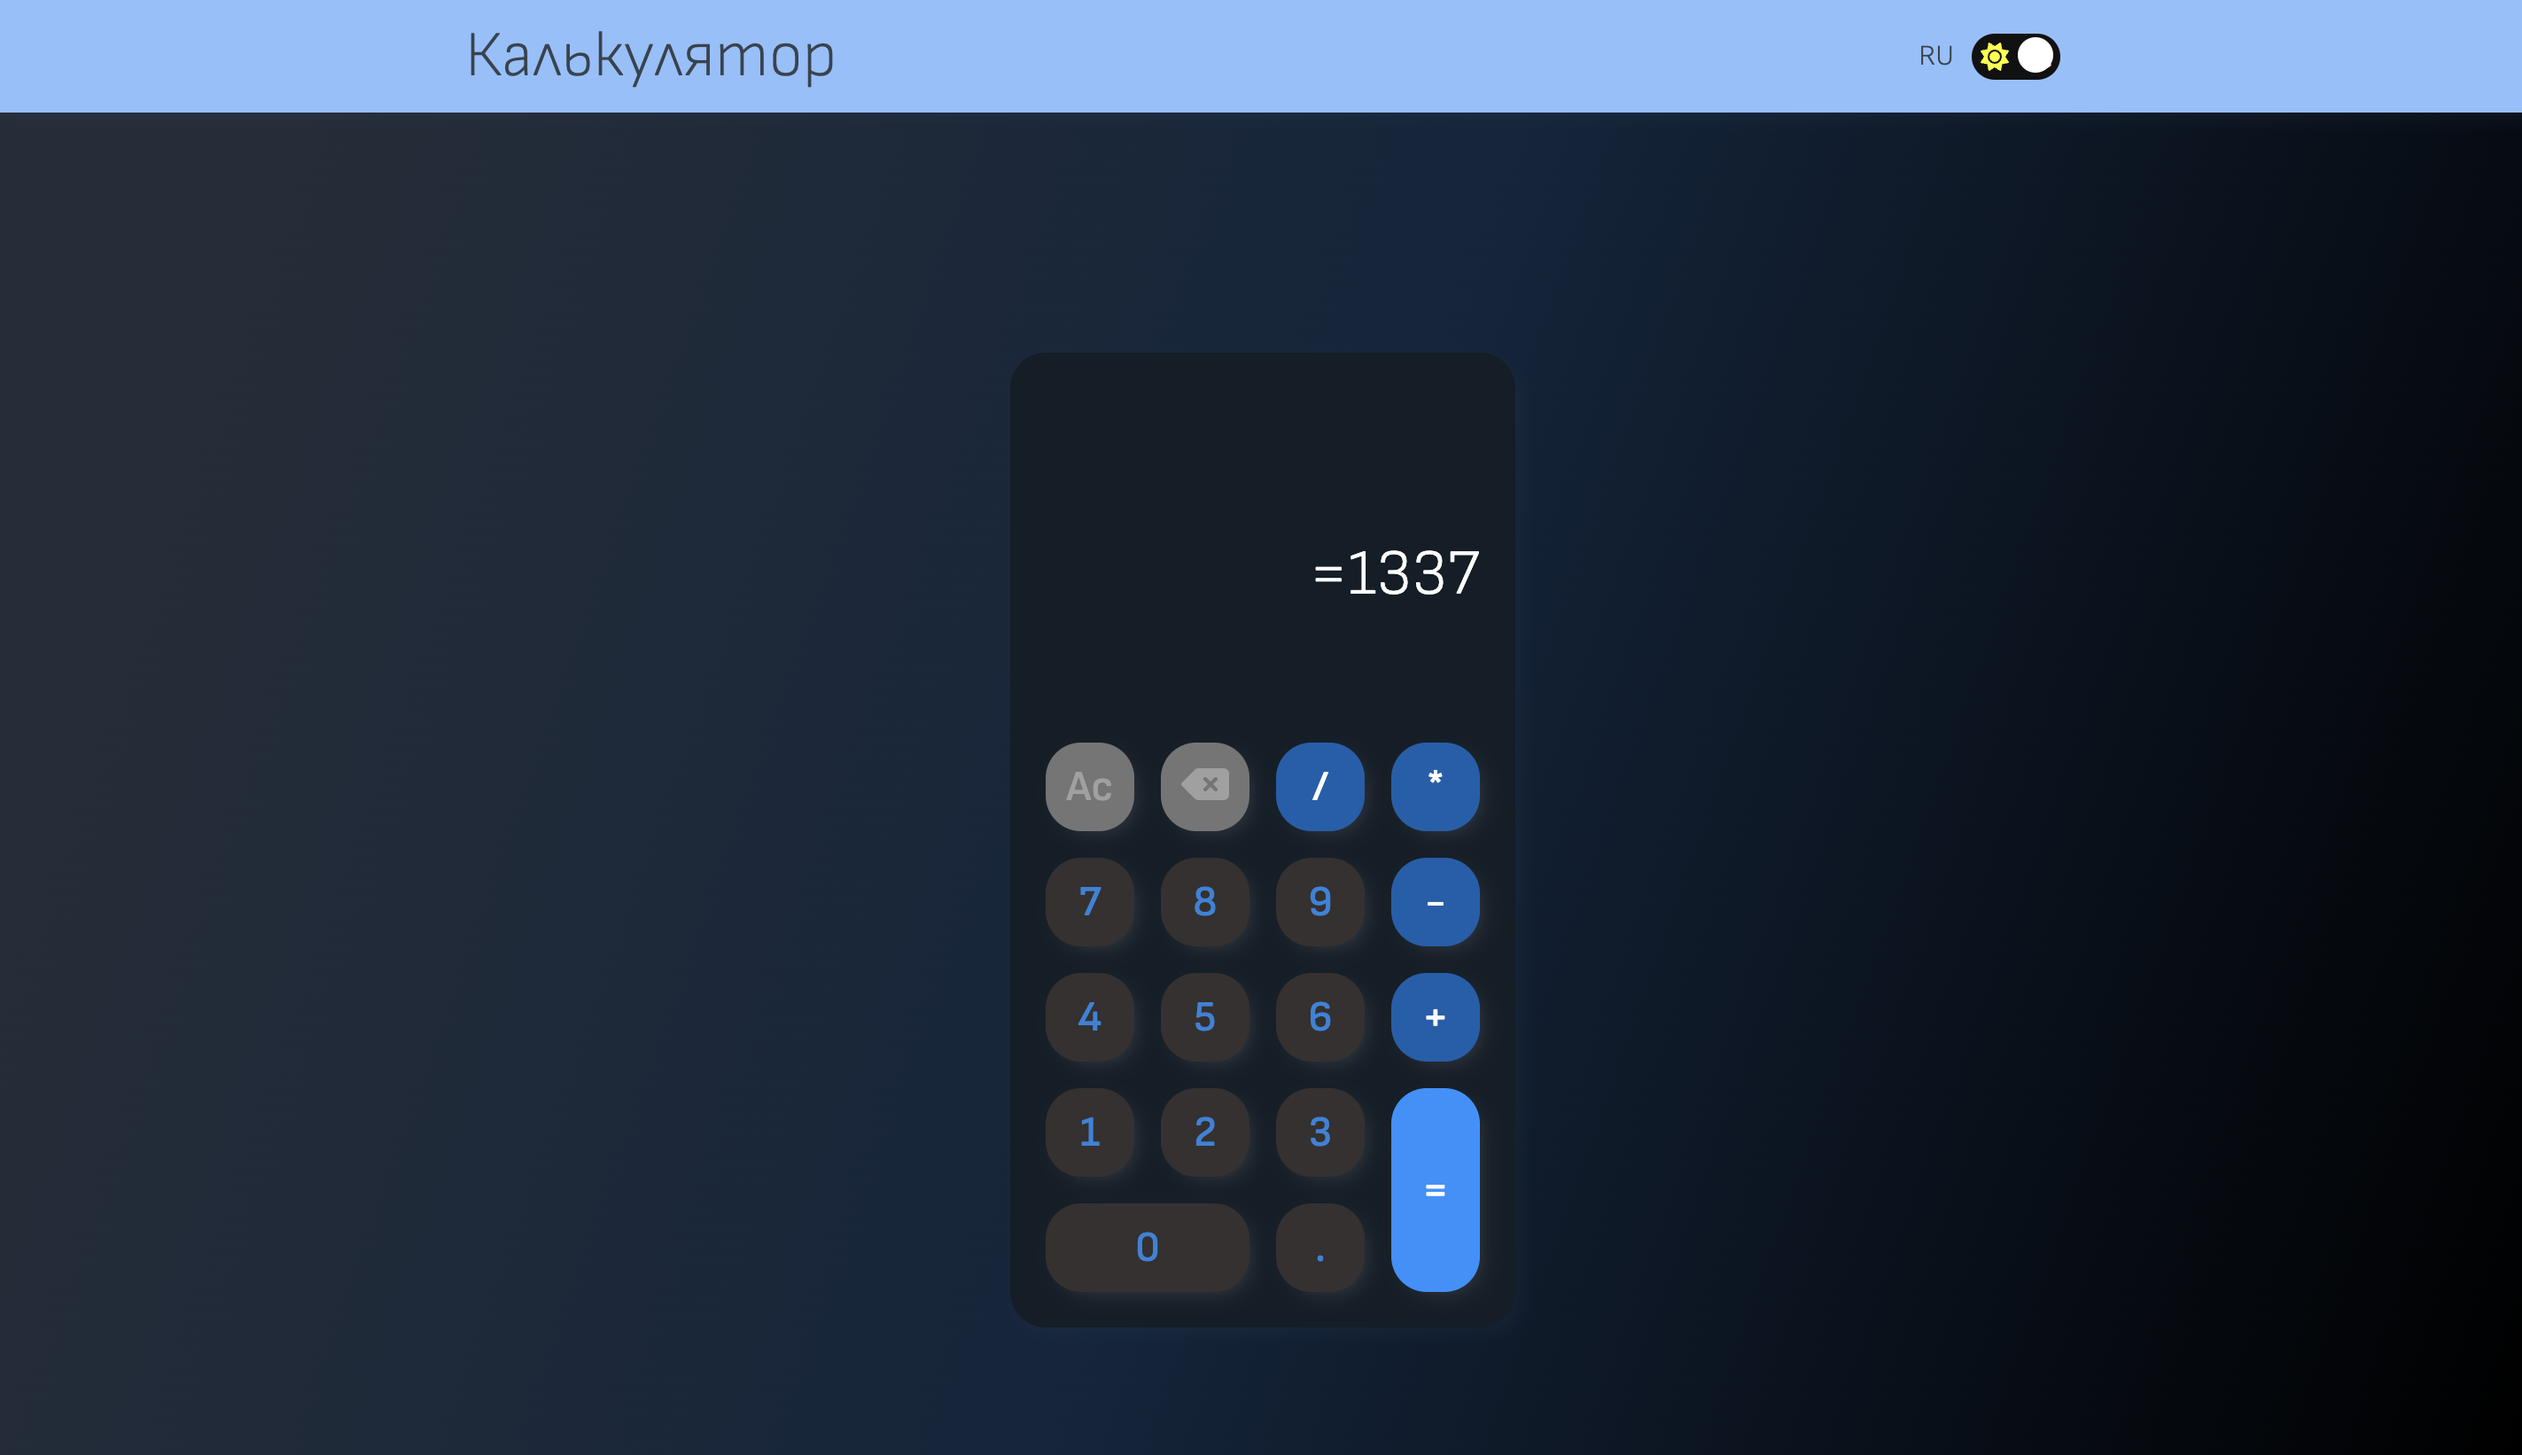
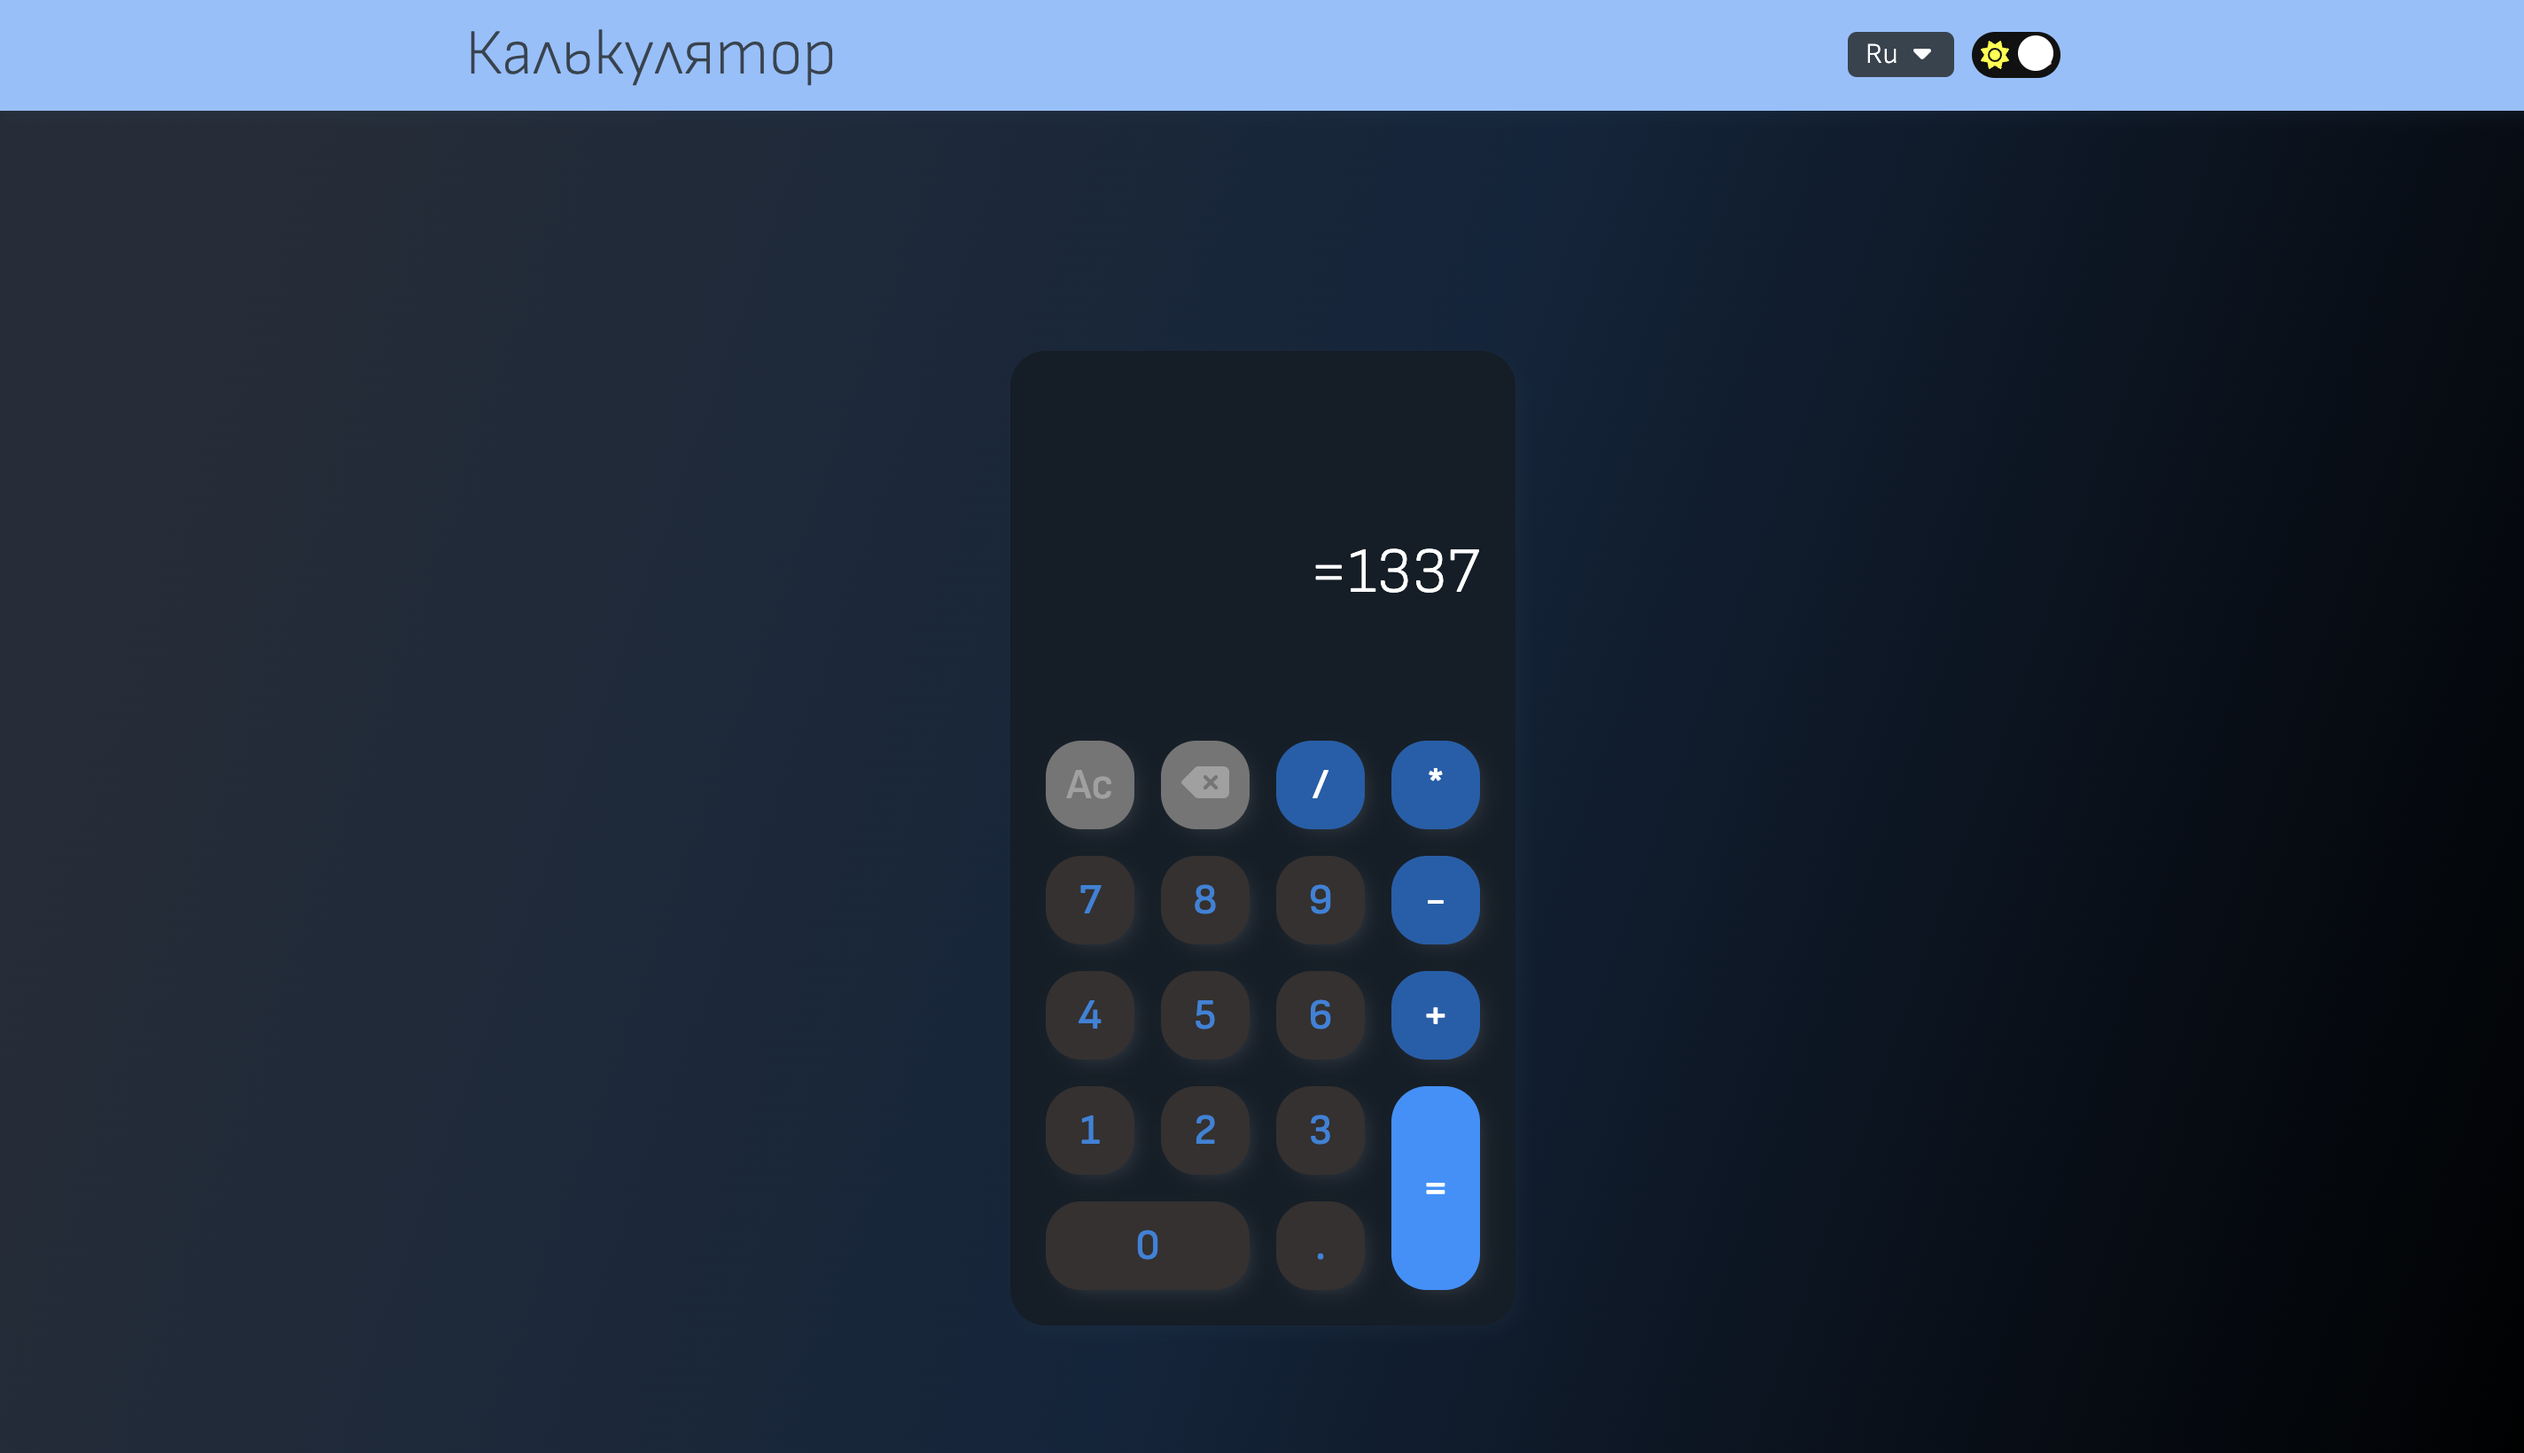
Modified: language picker, Added: footer

Changed region(s): [[0.1855, 0.0311, 0.3401, 0.0622], [0.7112, 0.0, 0.8039, 0.0622], [0.5257, 0.3732, 0.5875, 0.4043]]

diff --git a/src/html/layouts/_header.html b/src/html/layouts/_header.html
@@ -4,7 +4,19 @@
             <div class="header__title">Калькулятор</div>
             <ul class="header__menu">
                 <li>
-                    RU
+                    <div class="language-picker">
+                        <div class="language-picker__btn">
+                            <span class="" id="language-picker__lang">Ru</span>
+                            <i class="fa-solid fa-caret-down"></i>
+                        </div>
+                        <div class="language-picker__content">
+                            <ul class="language-picker__options">
+                                <li class="language-picker__option" data-lang="ru">Ru</li>
+                                <li class="language-picker__option" data-lang="en">En</li>
+                                <li class="language-picker__option" data-lang="de">De</li>
+                            </ul>
+                        </div>
+                    </div>
                 </li>
                 <li class="header__menu-item">
                     <div>

diff --git a/src/scss/components/_language-picker.scss b/src/scss/components/_language-picker.scss
@@ -1,0 +1,59 @@
+$wrapper-border-radius: 0.5rem;
+
+.language-picker {
+  position: relative;
+  width: 6rem;
+
+  .active &__content {
+    display: block;
+  }
+
+  .active &__btn svg {
+    transform: rotate(-180deg);
+  }
+
+  &__btn {
+    padding: 0.3rem 1rem;
+    border-radius: $wrapper-border-radius;
+    user-select: none;
+
+    svg {
+      transition: .2s transform linear;
+    }
+
+    &:hover {
+      cursor: pointer;
+    }
+
+    span {
+      margin-right: 0.5rem;
+    }
+  }
+
+  &__content {
+    display: none;
+
+    position: absolute;
+    width: 100%;
+    top: 3rem;
+
+    padding: 1rem;
+    border-radius: $wrapper-border-radius;
+  }
+
+  &__options {
+    display: flex;
+    flex-direction: column;
+    row-gap: 0.5rem;
+  }
+
+  &__option {
+    padding: 0.1rem 0.3rem;
+    border-radius: $wrapper-border-radius;
+    transition: .1s background-color linear, .1s color linear;
+
+    &:hover {
+      cursor: pointer;
+    }
+  }
+}

diff --git a/src/scss/abstracts/_vars.scss b/src/scss/abstracts/_vars.scss
@@ -7,6 +7,9 @@
   // header
   --header-bg: #8dc0fd;
 
+  // footer
+  --footer-bg: #8dc0fd;
+
   // calc
   --calc-expression-text-color: #ffffff;
   --calc-result-text-color: #37434F;
@@ -31,7 +34,7 @@
   // header
   --dark-header-bg: #1c1a1a;
 
-  // calc
+  // calc dark
   --dark-calc-expression-text-color: #5F6468;
   --dark-calc-result-text-color: #FFFFFF;
   --dark-calc-wrapper-bg-color: #131D27;
@@ -50,4 +53,19 @@
   --dark-calc-clear-btn-text-color: #a1a0a0;
   --dark-calc-delete-btn-bg-color: #757575;
   --dark-calc-delete-btn-text-color: #a1a0a0;
+
+  // language picker
+
+  // light
+  --lp-btn-bg-color: #fff;
+  --lp-content-bg-color: #fff;
+  --lp-option-hover-bg-color: #c5c5c5;
+
+  // dark
+  --dark-lp-btn-text-color: #fff;
+  --dark-lp-option-text-color: #fff;
+  --dark-lp-option-hover-text-color: #37434F;
+  --dark-lp-btn-bg-color: #37434F;
+  --dark-lp-content-bg-color: #37434F;
+  --dark-lp-option-hover-bg-color: #fff;
 }

diff --git a/src/js/language-picker.js b/src/js/language-picker.js
@@ -1,0 +1,27 @@
+const lp = document.querySelector(".language-picker");
+const lpBtn = document.querySelector(".language-picker__btn");
+const lpContent = document.querySelector(".language-picker__content");
+const lpOptionBtns = document.querySelectorAll(".language-picker__option");
+let lpCurrentLang = document.getElementById("language-picker__lang");
+
+function updateLanguage(btn) {
+    lpCurrentLang.innerText = btn.innerText;
+
+    // remove selected from previous button
+    // lpOptionBtns.forEach(el => {
+    //     if (el.getAttribute("selected")) {
+    //         el.removeAttribute("selected");
+    //     }
+    // })
+}
+
+lpBtn.addEventListener("click", () => {
+    lp.classList.toggle("active");
+})
+
+lpOptionBtns.forEach(btn => {
+    btn.addEventListener("click", () => {
+        lpCurrentLang.innerText = btn.innerText;
+        lp.classList.toggle("active");
+    });
+})

diff --git a/src/html/layouts/_footer.html b/src/html/layouts/_footer.html
@@ -1,10 +1,8 @@
-<!DOCTYPE html>
-<html lang="en">
-<head>
-    <meta charset="UTF-8">
-    <title>Title</title>
-</head>
-<body>
-
-</body>
-</html>
+<footer class="footer">
+    <div class="footer__container container">
+        <div class="footer__social">
+            <p class="footer__social-item"><a href="https://github.com/angl1chanin"><i class="fa-brands fa-github"></i></a></p>
+            <p class="footer__social-item">Дизайн идея: <a href="https://www.behance.net/gallery/121157423/DailyUi-Calculator-App-Design-Challenge-Sadekhr5" target="_blank"><i class="fa-brands fa-square-behance"></i></a></p>
+        </div>
+    </div>
+</footer>

diff --git a/src/scss/layouts/_footer.scss b/src/scss/layouts/_footer.scss
@@ -1,0 +1,29 @@
+.footer {
+  background-color: var(--footer-bg);
+  padding: 2rem 0;
+
+  &__social {
+    display: flex;
+    align-items: center;
+    justify-content: space-between;
+  }
+
+  &__social-item {
+    font-size: 1.8rem;
+
+    svg {
+      font-size: 2rem;
+      color: white;
+      transition: .3s color linear;
+
+      &:hover {
+        color: #000000;
+      }
+    }
+
+    a {
+      color: inherit;
+      text-decoration: none;
+    }
+  }
+}

diff --git a/src/scss/dark.scss b/src/scss/dark.scss
@@ -50,3 +50,22 @@ body {
     }
   }
 }
+
+.language-picker {
+  &__btn {
+    background-color: var(--dark-lp-btn-bg-color);
+    color: var(--dark-lp-btn-text-color);
+  }
+
+  &__content {
+    background-color: var(--dark-lp-content-bg-color);
+  }
+
+  &__option {
+    color: var(--dark-lp-option-text-color);
+    &:hover {
+      background-color: var(--dark-lp-option-hover-bg-color);
+      color: var(--dark-lp-option-hover-text-color);
+    }
+  }
+}

diff --git a/gulpfile.js b/gulpfile.js
@@ -35,6 +35,7 @@ gulp.task('watch', function () {
   gulp.watch('src/scss/**/*.+(scss|sass|css)', gulp.parallel('styles'));
   gulp.watch('src/js/*.js').on('change', gulp.parallel('scripts'));
   gulp.watch('src/*.html').on('change', gulp.parallel('html'));
+  gulp.watch('src/html/**/*.html').on('change', gulp.parallel('html'));
 });
 
 gulp.task('html', function () {

diff --git a/src/scss/light.scss b/src/scss/light.scss
@@ -48,3 +48,19 @@ body {
     }
   }
 }
+
+.language-picker {
+  &__btn {
+    background-color: var(--lp-btn-bg-color);
+  }
+
+  &__content {
+    background-color: var(--lp-content-bg-color);
+  }
+
+  &__option {
+    &:hover {
+      background-color: var(--lp-option-hover-bg-color);
+    }
+  }
+}

diff --git a/src/scss/main.scss b/src/scss/main.scss
@@ -7,9 +7,11 @@
 
 // components
 @import "components/toggle-button";
+@import "components/language-picker";
 
 // layouts
 @import "layouts/header";
+@import "layouts/footer";
 
 // pages
 @import "pages/index";

diff --git a/src/index.html b/src/index.html
@@ -45,6 +45,8 @@
     </div>
 </section>
 
+@@include("html/layouts/_footer.html")
+
 <script src="js/index.min.js"></script>
 
 </body>
